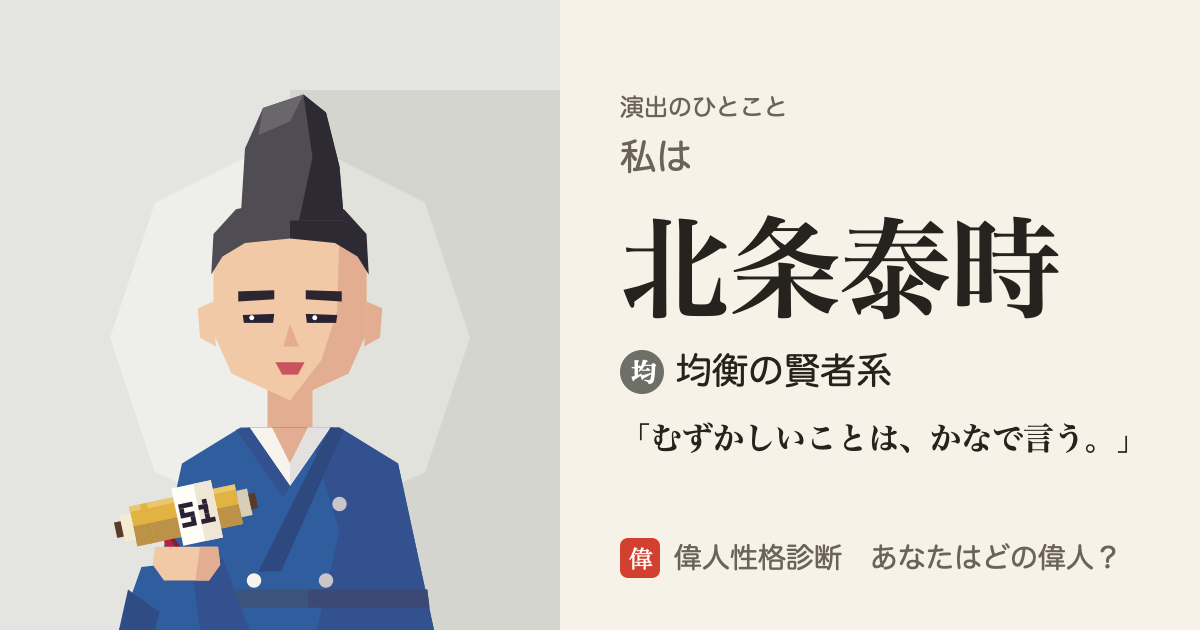
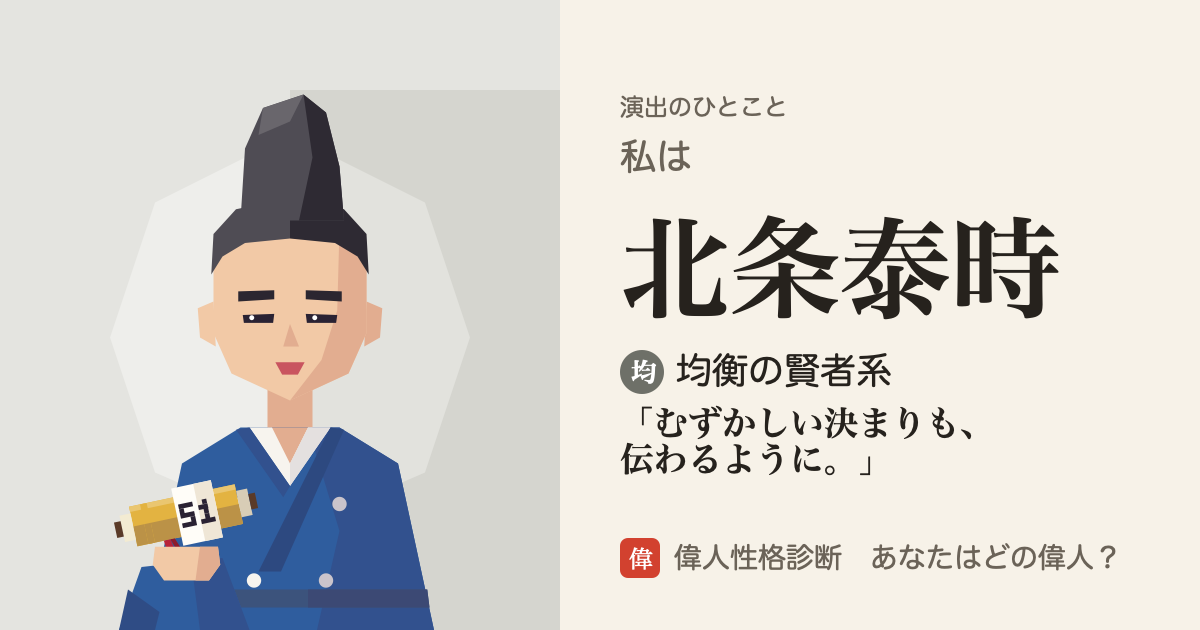
公開 版 69d3e7f-202610291443

Changed region(s): [[0.4933, 0.6333, 0.925, 0.754]]

diff --git a/app/main.js b/app/main.js
@@ -1,28 +1,28 @@
 // 画面：トップ（#/）→ 質問（#/q/<mode>）→ 結果（#/r/<mode>/<回答>）／ 図鑑（#/zukan）
 // 結果のURLには回答（1〜5の数字の列）が入るので、そのままシェアできる。
 // 設計の根拠：docs/ui-redesign.md（デザイナー）、docs/game-design-review.md の P0（ゲーム開発者）
-import { AXES, BATTLE_EVEN_THRESHOLD, Shindan, loadData } from "./shindan.js?v=260c6f1-202610291044";
-import { mountMotion } from "./motion.js?v=260c6f1-202610291044";
-import { mountGuide } from "./guide.js?v=260c6f1-202610291044";
+import { AXES, BATTLE_EVEN_THRESHOLD, Shindan, loadData } from "./shindan.js?v=69d3e7f-202610291443";
+import { mountMotion } from "./motion.js?v=69d3e7f-202610291443";
+import { mountGuide } from "./guide.js?v=69d3e7f-202610291443";
 import { SELF_KEY, LEGACY_SELF_KEYS, blankSelfState, readSelfState, initializeSelfState, armSelfClear,
-  writeSelfState, rebaselineLegacySelfState, nextDiagnosisState, nextRestoredState, nextZukanSettledState } from "./self_state.js?v=260c6f1-202610291044";
-import { createInviteToken, validInviteToken, validFriendCode, makeFriendCode, friendAnswersFromCode, makeInviteUrl, makeReplyUrl, parseSocialHash, otherPilotAllowed } from "./social.js?v=260c6f1-202610291044";
-import { orderOtherV1Questions, otherV1ProgressIndex } from "./other_v1.js?v=260c6f1-202610291044";
-import { appendOtherReply, removeOtherReply } from "./other_replies.js?v=260c6f1-202610291044";
-import { prependPersonCard, distinctCardFigures, figureSetProgress, cleanPersonCardLabel, personCardDisplayName, personCardNeedsLabel } from "./people.js?v=260c6f1-202610291044";
-import { isSharedResultEntry, sharedResultViewPath, withoutSharedResultParam } from "./shared_entry.js?v=260c6f1-202610291044";
-import { rememberSharedReturn, readSharedReturn } from "./shared_return.js?v=260c6f1-202610291044";
-import { storedResultMatches, storedList } from "./stored_result.js?v=260c6f1-202610291044";
-import { clearPrefixedStorage } from "./storage_clear.js?v=260c6f1-202610291044";
-import { readClearEpoch, compareClearEpoch, ensureClearEpoch, advanceClearEpoch } from "./storage_epoch.js?v=260c6f1-202610291044";
-import { applyZukanBatch } from "./zukan_batch.js?v=260c6f1-202610291044";
+  writeSelfState, rebaselineLegacySelfState, nextDiagnosisState, nextRestoredState, nextZukanSettledState } from "./self_state.js?v=69d3e7f-202610291443";
+import { createInviteToken, validInviteToken, validFriendCode, makeFriendCode, friendAnswersFromCode, makeInviteUrl, makeReplyUrl, parseSocialHash, otherPilotAllowed } from "./social.js?v=69d3e7f-202610291443";
+import { orderOtherV1Questions, otherV1ProgressIndex } from "./other_v1.js?v=69d3e7f-202610291443";
+import { appendOtherReply, removeOtherReply } from "./other_replies.js?v=69d3e7f-202610291443";
+import { prependPersonCard, distinctCardFigures, figureSetProgress, cleanPersonCardLabel, personCardDisplayName, personCardNeedsLabel } from "./people.js?v=69d3e7f-202610291443";
+import { isSharedResultEntry, sharedResultViewPath, withoutSharedResultParam } from "./shared_entry.js?v=69d3e7f-202610291443";
+import { rememberSharedReturn, readSharedReturn } from "./shared_return.js?v=69d3e7f-202610291443";
+import { storedResultMatches, storedList } from "./stored_result.js?v=69d3e7f-202610291443";
+import { clearPrefixedStorage } from "./storage_clear.js?v=69d3e7f-202610291443";
+import { readClearEpoch, compareClearEpoch, ensureClearEpoch, advanceClearEpoch } from "./storage_epoch.js?v=69d3e7f-202610291443";
+import { applyZukanBatch } from "./zukan_batch.js?v=69d3e7f-202610291443";
 
 const $ = (s, el = document) => el.querySelector(s);
 const app = $("#app"), overlay = $("#overlay"), sheet = $("#sheet");
 const getJSON = (u) => fetch(u).then((r) => r.json());
 async function loadInitialState() {
   try {
-    const [data, meta] = await Promise.all([loadData(), getJSON("meta.json?v=260c6f1-202610291044")]);
+    const [data, meta] = await Promise.all([loadData(), getJSON("meta.json?v=69d3e7f-202610291443")]);
     const engines = { normal: new Shindan(data, "free", "normal"), love: new Shindan(data, "free", "love") };
     // OTHER の設問は試験中。未較正の人物判定を実行せず、回答そのものを返す。
     const otherQuestions = orderOtherV1Questions(data.questions_friend.questions);

diff --git a/app/s/normal/hojo-yasutoki.html b/app/s/normal/hojo-yasutoki.html
@@ -1,6 +1,6 @@
 <!doctype html><html lang="ja"><head><meta charset="utf-8">
 <title>北条泰時タイプでした｜偉人性格診断</title>
-<meta property="og:title" content="北条泰時タイプでした｜偉人性格診断"><meta property="og:description" content="均衡の賢者系：演出のひとこと（本人の発言とは限りません）「むずかしいことは、かなで言う。」 あなたはどの偉人？ 12問でわかる">
+<meta property="og:title" content="北条泰時タイプでした｜偉人性格診断"><meta property="og:description" content="均衡の賢者系：演出のひとこと（本人の発言とは限りません）「むずかしい決まりも、伝わるように。」 あなたはどの偉人？ 12問でわかる">
 <meta property="og:image" content="https://ijin-shindan.github.io/app/og/normal/hojo-yasutoki.png"><meta property="og:image:width" content="1200"><meta property="og:image:height" content="630">
 <meta property="og:url" content="https://ijin-shindan.github.io/app/s/normal/hojo-yasutoki.html"><meta property="og:type" content="website"><meta name="twitter:card" content="summary_large_image">
 <meta name="robots" content="noindex">

diff --git a/app/index.html b/app/index.html
@@ -15,7 +15,7 @@
   <link rel="icon" href="icons/favicon.svg" type="image/svg+xml">
   <link rel="icon" href="icons/favicon-32.png" sizes="32x32" type="image/png">
   <link rel="apple-touch-icon" href="icons/apple-touch-icon.png">
-  <link rel="stylesheet" href="style.css?v=260c6f1-202610291044">
+  <link rel="stylesheet" href="style.css?v=69d3e7f-202610291443">
   <link rel="stylesheet" href="motion.css?v=5">
   <link rel="stylesheet" href="guide.css?v=6">
 </head>
@@ -42,7 +42,7 @@
   </main>
   <div id="overlay" hidden></div>
   <div id="sheet" hidden></div>
-  <script type="module" src="main.js?v=260c6f1-202610291044"></script>
+  <script type="module" src="main.js?v=69d3e7f-202610291443"></script>
   <script>
     let bootFailed = false;
     function showBootFailure() {

diff --git a/app/shindan.js b/app/shindan.js
@@ -9,7 +9,7 @@ const dot = (a, b) => a.reduce((s, x, i) => s + x * b[i], 0);
 
 export async function loadData(base = "../data/") {
   const names = ["axes", "types", "rules", "plans", "questions", "questions_love", "questions_friend", "texts"];
-  const jsons = await Promise.all(names.map((n) => fetch(`${base}${n}.json?v=260c6f1-202610291044`).then((r) => r.json())));
+  const jsons = await Promise.all(names.map((n) => fetch(`${base}${n}.json?v=69d3e7f-202610291443`).then((r) => r.json())));
   return Object.fromEntries(names.map((n, i) => [n, jsons[i]]));
 }
 

diff --git a/app/other_replies.js b/app/other_replies.js
@@ -1,5 +1,5 @@
 // 他己回答は別人の証明ができない。端末内の返信記録としてだけ扱う。
-import { validInviteToken, validFriendCode } from "./social.js?v=260c6f1-202610291044";
+import { validInviteToken, validFriendCode } from "./social.js?v=69d3e7f-202610291443";
 
 export function appendOtherReply(records, entry, maxRecords = 50) {
   if (!Array.isArray(records) || !validInviteToken(entry?.token) || !validFriendCode(entry?.code))

diff --git a/app/people.js b/app/people.js
@@ -1,5 +1,5 @@
 // 回答コードは人物の識別子ではない。同じ回答の別人もカード化できる。
-import { validInviteToken } from "./social.js?v=260c6f1-202610291044";
+import { validInviteToken } from "./social.js?v=69d3e7f-202610291443";
 
 export function prependPersonCard(cards, card, maxCards = 50, isUsable = () => true) {
   if (!Array.isArray(cards) || cards.filter(isUsable).length >= maxCards) return null;
